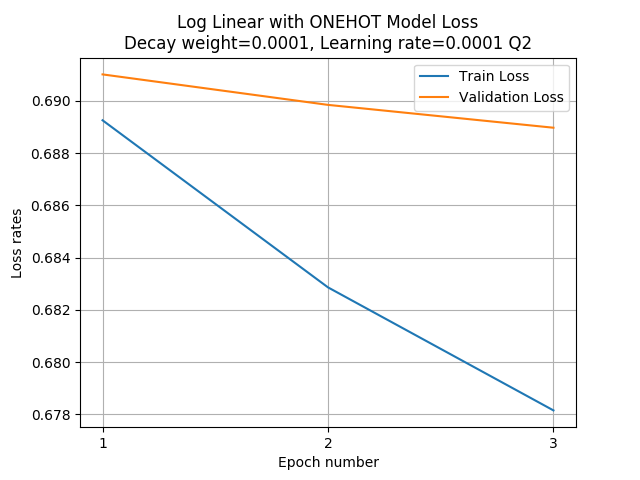
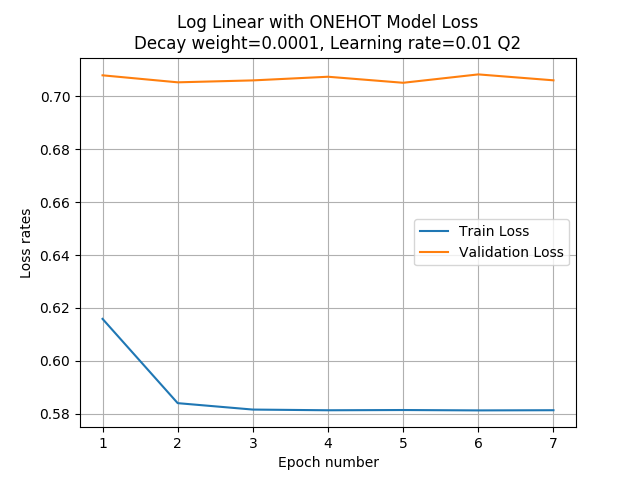
one-hot works with good results

diff --git a/exercise_blanks.py b/exercise_blanks.py
@@ -166,14 +166,10 @@ def average_one_hots(sent, word_to_ind):
     :param word_to_ind: a mapping between words to indices
     :return:
     """
-    # size = len(word_to_ind)
     avg = np.zeros(len(word_to_ind))
-    # sent_text = sent.text
     for word in sent.text:
         word_index = word_to_ind[word]
         avg[word_index] += 1
-        # avg += get_one_hot(len(word_to_ind), word_to_ind[word])
-
     avg = avg/len(sent.text)
     return avg
 
@@ -186,8 +182,6 @@ def get_word_to_ind(words_list):
     :return: the dictionary mapping words to the index
     """
     word_to_ind = {}
-    # words_set = set(words_list)
-    # TODO do we regard upper/lower case letters?
     for i in range(len(words_list)):
         word_to_ind[words_list[i]] = i
     return word_to_ind
@@ -488,10 +482,8 @@ def train_epoch(model, data_iterator, optimizer, criterion):
     for x, y_label in tqdm(data_iterator):
         x = x.float()
         y_label = y_label.reshape(len(y_label), 1).double()
-        y_forward = model(x) # TODO BUG HERE - y_forward becomes vector of zeros
-        #############################
+        y_forward = model(x)
         y_p = model.predict(y_forward).double()
-
         y_predictions.append(y_p)
         # compute the loss
         loss = criterion(y_forward, y_label)  # CRITERION USES SIGMOID
@@ -574,26 +566,26 @@ def train_model(model, data_manager, n_epochs, lr, weight_decay=0.):
     train_iterator = data_manager.get_torch_iterator(data_subset=TRAIN)
     val_iterator = data_manager.get_torch_iterator(data_subset=VAL)
     for epoch in (range(n_epochs)):
+        # train
         avg_train_loss, avg_train_acc = train_epoch(
             model=model, data_iterator=train_iterator, optimizer=optimizer, criterion=criterion)
         train_acc_arr.append(avg_train_acc)
         train_loss_arr.append(avg_train_loss)
 
-        # Validation        TODO is the validation in the same epoch loop or another?
+        # Validation
         avg_val_loss, avg_val_acc = evaluate(model=model, data_iterator=val_iterator, criterion=criterion)
-        # (model, data_manager.get_torch_iterator(data_subset=VAL), optimizer, criterion)
         val_acc_arr.append(avg_val_acc)
         val_loss_arr.append(avg_val_loss)
 
+    # print("Epoch ", epoch, " accuracy:", train_acc_arr)
     return train_acc_arr, train_loss_arr, val_acc_arr, val_loss_arr
 
 
 def train_log_linear_with_one_hot(lr, n_epochs, weight_decay):
     """
     """
-    # get data
-    size = 64
-    data_manager = DataManager(batch_size=size)
+    # initialize data manager
+    data_manager = DataManager(batch_size=BATCH_SIZE)
     # test_iterator = DataManager(batch_size=size).get_torch_iterator(data_subset=TEST)
 
     embedding_dimension = len(data_manager.sentiment_dataset.get_word_counts())
@@ -719,13 +711,13 @@ def Q3():
 def main():
     weights_array = [0, 0.0001, 0.001]
     n_epochs = 7
-    lr = 0.0001
-    Q1(lr=lr, weights_array=weights_array, n_epochs=n_epochs)
+    lr = 0.01
+    # Q1(lr=lr, weights_array=weights_array, n_epochs=n_epochs)
 
-    # Q2(lr, weights_array, n_epochs)
+    Q2(lr, weights_array, n_epochs)
 
     # Q3()
-
+    
     # for wd in weight_decays:
     #     train_log_linear_with_one_hot(lr=lr1, weight_decay=wd, n_epochs=20)
     # train_log_linear_with_w2v()
